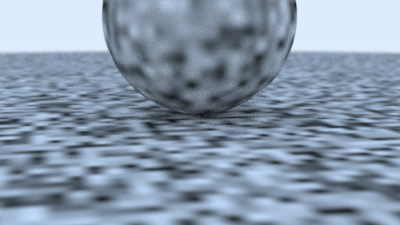
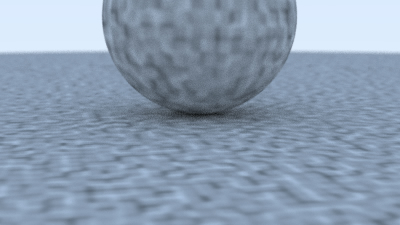
2-image11 generated

diff --git a/raytracer/src/perlin.rs b/raytracer/src/perlin.rs
@@ -1,11 +1,11 @@
 use rand::Rng;
 
-use crate::vec::Point3;
+use crate::vec::{Point3, Vec3};
 
 const POINT_COUNT: usize = 256;
 
 pub struct Perlin {
-    randfloat: [f64; POINT_COUNT],
+    randvec: [Vec3; POINT_COUNT],
     perm_x: [usize; POINT_COUNT],
     perm_y: [usize; POINT_COUNT],
     perm_z: [usize; POINT_COUNT],
@@ -14,16 +14,15 @@ pub struct Perlin {
 impl Perlin {
     #[allow(clippy::needless_range_loop)]
     pub fn new() -> Self {
-        let mut randfloat = [0.; POINT_COUNT];
-        let mut rng = rand::thread_rng();
+        let mut randvec = [Vec3::new(0., 0., 0.); POINT_COUNT];
         for i in 0..POINT_COUNT {
-            randfloat[i] = rng.gen();
+            randvec[i] = Vec3::random(-1., 1.).to_unit();
         }
         let perm_x = Perlin::perlin_generate_perm();
         let perm_y = Perlin::perlin_generate_perm();
         let perm_z = Perlin::perlin_generate_perm();
         Self {
-            randfloat,
+            randvec,
             perm_x,
             perm_y,
             perm_z,
@@ -62,12 +61,12 @@ impl Perlin {
         let j = p.y.floor() as i32;
         let k = p.z.floor() as i32;
 
-        let mut c: [[[f64; 2]; 2]; 2] = Default::default();
+        let mut c: [[[Vec3; 2]; 2]; 2] = [[[Vec3::new(0., 0., 0.); 2]; 2]; 2];
 
         for di in 0..2 {
             for dj in 0..2 {
                 for dk in 0..2 {
-                    c[di][dj][dk] = self.randfloat[self.perm_x[((i + di as i32) & 255) as usize]
+                    c[di][dj][dk] = self.randvec[self.perm_x[((i + di as i32) & 255) as usize]
                         ^ self.perm_y[((j + dj as i32) & 255) as usize]
                         ^ self.perm_z[((k + dk as i32) & 255) as usize]]
                 }
@@ -78,15 +77,20 @@ impl Perlin {
     }
 
     #[allow(clippy::needless_range_loop)]
-    fn trilinear_interp(c: [[[f64; 2]; 2]; 2], u: f64, v: f64, w: f64) -> f64 {
+    fn trilinear_interp(c: [[[Vec3; 2]; 2]; 2], u: f64, v: f64, w: f64) -> f64 {
+        let uu = u * u * (3. - 2. * u);
+        let vv = v * v * (3. - 2. * v);
+        let ww = w * w * (3. - 2. * w);
+
         let mut accum = 0.;
         for i in 0..2 {
             for j in 0..2 {
                 for k in 0..2 {
-                    accum += (i as f64 * u + (1 - i) as f64 * (1. - u))
-                        * (j as f64 * v + (1 - j) as f64 * (1. - v))
-                        * (k as f64 * w + (1 - k) as f64 * (1. - w))
-                        * c[i][j][k];
+                    let weight_v = Vec3::new(u - i as f64, v - j as f64, w - k as f64);
+                    accum += Vec3::dot(c[i][j][k], weight_v)
+                        * (i as f64 * uu + (1 - i) as f64 * (1. - uu))
+                        * (j as f64 * vv + (1 - j) as f64 * (1. - vv))
+                        * (k as f64 * ww + (1 - k) as f64 * (1. - ww));
                 }
             }
         }

diff --git a/raytracer/src/texture.rs b/raytracer/src/texture.rs
@@ -57,15 +57,12 @@ pub struct NoiseTexture {
 impl NoiseTexture {
     pub fn new(scale: f64) -> Self {
         let noise = Perlin::new();
-        Self {
-            noise,
-            scale,
-        }
+        Self { noise, scale }
     }
 }
 
 impl Texture for NoiseTexture {
     fn value(&self, _u: f64, _v: f64, p: Point3) -> Color {
-        Color::new(1., 1., 1.) * self.noise.noise(p * self.scale)
+        Color::new(1., 1., 1.) * 0.5 * (1.0 + self.noise.noise(p * self.scale))
     }
 }
